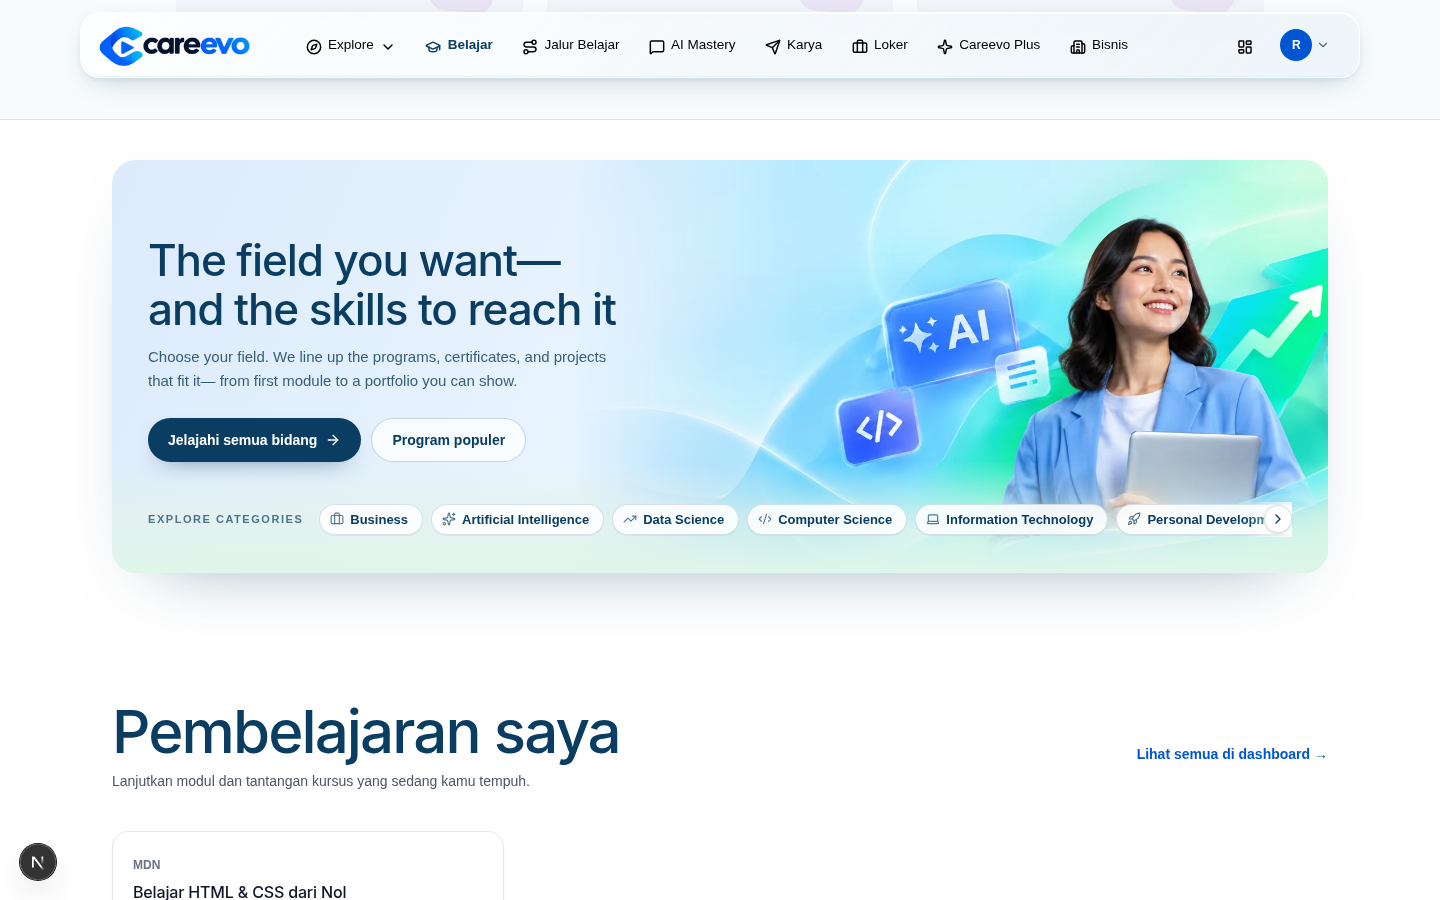
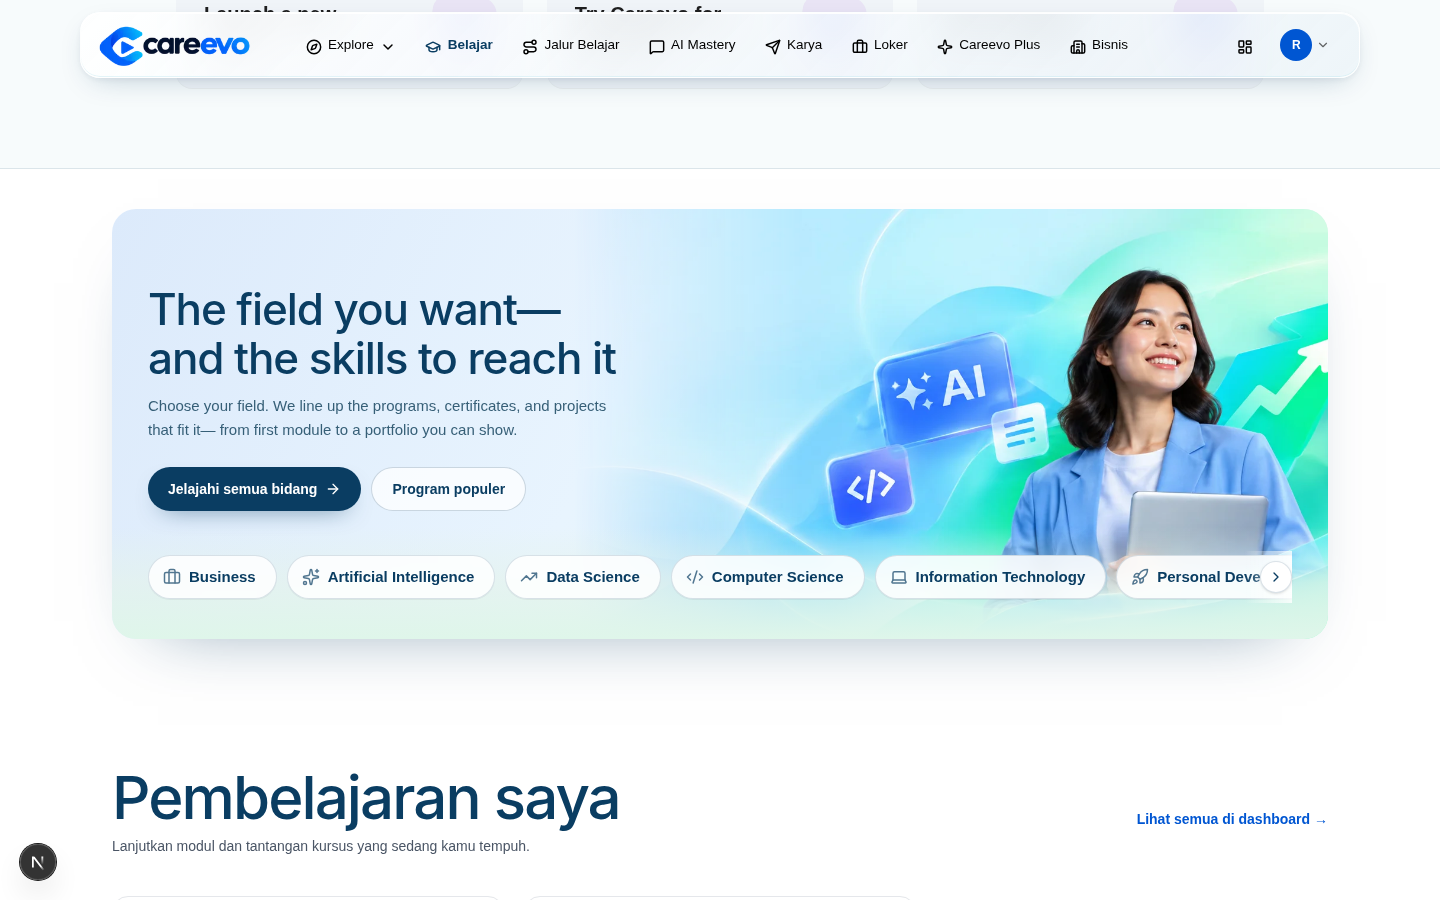
ui(learning): baris kategori jadi pill besar yang bisa diseret
Tiga perubahan pada baris 11 kategori di banner kategorikan:

1. Label "EXPLORE CATEGORIES" dihapus. Besides mencuri lebar dari
   pill, label itu读完 jadi judul kedua: heading "The field you
   want—" kehilanganarean top-nya. Heading sekarang memiliki
   baris paling atas banner tanpa rebutan.

2. Pill lebih besar: `min-h-11` + `py-2.5 pr-5 pl-3.5`, teks
   15px di ≥sm (dari 13px), ikon `size-4.5` (dari 3.5). Di 1440
   tinggi pill 44px dan barisnya 2310px konten di dalam 1144px
   viewport, jadi pasti bergeser.

3. Bisa diseret dengan mouse. `pointerType === "mouse"` jadi
   gerbang: sentuh sudah punya momentum pan native dan mengambil
   pointer-nya di sana akan menukarnya dengan seret 1:1. Ambil
   `setPointerCapture` baru pada gerakan seret pertama — capture
   di pointerdown membuat klik biasa pada pill tidak lagi
   navigasi, karena klik sintetis diteruskan ke elemen yang
   memegang capture. `tangkapKlik` menelan klik yang jatuh
   sesudah seret, kalau tidak menyeret melewati sebuah pill akan
  -tetap membukanya.

Diuji di browser: klik "Data Science" -> /browse/data-science;
seret 280px ke kiri -> scrollLeft=280 dan path tetap /belajar.

diff --git a/src/components/features/learning/belajar-home.tsx b/src/components/features/learning/belajar-home.tsx
@@ -687,6 +687,73 @@ function ExploreCategoriesBanner() {
     });
   };
 
+  /**
+   * Drag-to-scroll, mouse only.
+   *
+   * Touch already pans natively, and taking the pointer there would trade
+   * momentum scrolling for a 1:1 drag, so `pointerType` is the gate. Three
+   * details are load-bearing:
+   *
+   * - a 6px threshold before anything moves, so an ordinary click on a pill is
+   *   never mistaken for a drag;
+   * - capture is taken on the FIRST drag move, not on pointerdown. Capturing
+   *   early retargets the synthesised click to the capturing element, so a
+   *   plain click on a pill stopped navigating at all — capture has to wait
+   *   until we know this is a drag;
+   * - the click that lands after a drag is swallowed (`tangkapKlik`): without
+   *   it, releasing over a pill navigates to that pill;
+   * - `el.scrollLeft = …` rather than `scrollBy`, since the browser has already
+   *   applied its own drag delta by the time `pointermove` lands.
+   */
+  const [seret, setSeret] = useState({ geser: false });
+  const seretRef = useRef({ pointerId: -1, x: 0, scrollLeft: 0, geser: false });
+
+  const mulaiSeret = (event: React.PointerEvent<HTMLUListElement>) => {
+    if (event.pointerType !== "mouse" || event.button !== 0) return;
+    const el = pillRowRef.current;
+    if (!el) return;
+    seretRef.current = {
+      pointerId: event.pointerId,
+      x: event.clientX,
+      scrollLeft: el.scrollLeft,
+      geser: false,
+    };
+  };
+
+  const seretPill = (event: React.PointerEvent<HTMLUListElement>) => {
+    const state = seretRef.current;
+    if (state.pointerId !== event.pointerId) return;
+    const el = pillRowRef.current;
+    if (!el) return;
+    const dx = event.clientX - state.x;
+    if (!state.geser) {
+      if (Math.abs(dx) < 6) return;
+      state.geser = true;
+      // Only now, once this is known to be a drag, is capture safe to take.
+      el.setPointerCapture(event.pointerId);
+      setSeret({ geser: true });
+    }
+    el.scrollLeft = state.scrollLeft - dx;
+  };
+
+  const selesaiSeret = (event: React.PointerEvent<HTMLUListElement>) => {
+    const state = seretRef.current;
+    if (state.pointerId !== event.pointerId) return;
+    const el = pillRowRef.current;
+    if (el?.hasPointerCapture(event.pointerId)) {
+      el.releasePointerCapture(event.pointerId);
+    }
+    seretRef.current = { pointerId: -1, x: 0, scrollLeft: 0, geser: false };
+    setSeret({ geser: false });
+  };
+
+  const tangkapKlik = (event: React.MouseEvent<HTMLUListElement>) => {
+    if (!seretRef.current.geser) return;
+    event.preventDefault();
+    event.stopPropagation();
+    seretRef.current.geser = false;
+  };
+
   return (
     <section
       aria-labelledby="explore-categories-heading"
@@ -752,77 +819,84 @@ function ExploreCategoriesBanner() {
               </div>
             </div>
 
-            {/* Label + row. `flex-col` stacks the row under the label below
-                `sm`; `sm:flex-row` puts it beside the label from `sm` up.
-                Both are intentional — see the JSDoc above. The label is plain
-                uppercase text, not a filled pill, because a filled pill on the
-                heading's line reads as the headline. */}
-            <div className="mt-8 flex flex-col gap-2.5 sm:mt-10 sm:flex-row sm:items-center sm:gap-4">
-              <span className="shrink-0 text-[11px] font-bold tracking-[0.14em] text-[#0A3D62]/70 uppercase">
-                Explore categories
-              </span>
+            {/* The category row: one line, full width, mouse-draggable. No
+                label — an earlier pass had "EXPLORE CATEGORIES" inline here and
+                it both stole width from the pills and read as a second
+                headline. The heading above already says what this is. */}
+            <div className="relative mt-8 sm:mt-10">
+              {/* `tabIndex` on a scroll container is the documented way to make
+                  it keyboard-scrollable; arrow keys otherwise do nothing here. */}
+              <ul
+                ref={pillRowRef}
+                tabIndex={0}
+                aria-label="Kategori"
+                onScroll={syncPillScroll}
+                onPointerDown={mulaiSeret}
+                onPointerMove={seretPill}
+                onPointerUp={selesaiSeret}
+                onPointerCancel={selesaiSeret}
+                onClickCapture={tangkapKlik}
+                onDragStart={(event) => event.preventDefault()}
+                className={cn(
+                  "flex flex-nowrap items-center gap-2.5 overflow-x-auto py-1 pr-10 select-none",
+                  "[-ms-overflow-style:none] [scrollbar-width:none] [&::-webkit-scrollbar]:hidden",
+                  // A mouse has no native drag-to-scroll, so `grab` is the only
+                  // cue that the row moves. Touch keeps its native momentum.
+                  "touch-pan-x cursor-grab",
+                  seret.geser && "cursor-grabbing",
+                )}
+              >
+                {CATEGORY_PILLS.map((pill) => {
+                  const Icon = pill.icon;
+                  return (
+                    <li key={pill.slug} className="shrink-0">
+                      <Link
+                        href={FIELD_HREF[pill.slug] ?? `/browse/${pill.slug}`}
+                        draggable={false}
+                        className="group inline-flex min-h-11 items-center gap-2 rounded-full border border-[#0A3D62]/15 bg-white/85 py-2.5 pr-5 pl-3.5 text-sm font-semibold text-[#0A3D62] shadow-2xs backdrop-blur-sm transition-colors hover:border-[#0A3D62] hover:bg-[#0A3D62] hover:text-white sm:text-[15px]"
+                      >
+                        <Icon
+                          className="size-4.5 shrink-0 opacity-70 transition-opacity group-hover:opacity-100"
+                          aria-hidden
+                        />
+                        {pill.name}
+                      </Link>
+                    </li>
+                  );
+                })}
+              </ul>
 
-              <div className="relative min-w-0 flex-1">
-                {/* `tabIndex` on a scroll container is the documented way to make
-                    it keyboard-scrollable; arrow keys otherwise do nothing here. */}
-                <ul
-                  ref={pillRowRef}
-                  tabIndex={0}
-                  aria-label="Kategori"
-                  onScroll={syncPillScroll}
-                  className="flex flex-nowrap items-center gap-2 overflow-x-auto py-0.5 pr-8 scroll-smooth [-ms-overflow-style:none] [scrollbar-width:none] [&::-webkit-scrollbar]:hidden"
-                >
-                  {CATEGORY_PILLS.map((pill) => {
-                    const Icon = pill.icon;
-                    return (
-                      <li key={pill.slug} className="shrink-0">
-                        <Link
-                          href={FIELD_HREF[pill.slug] ?? `/browse/${pill.slug}`}
-                          className="group inline-flex items-center gap-1.5 rounded-full border border-[#0A3D62]/15 bg-white/85 py-1.5 pr-3.5 pl-2.5 text-xs font-semibold text-[#0A3D62] shadow-2xs backdrop-blur-sm transition-colors hover:border-[#0A3D62] hover:bg-[#0A3D62] hover:text-white sm:text-[13px]"
-                        >
-                          <Icon
-                            className="size-3.5 shrink-0 opacity-70 transition-opacity group-hover:opacity-100"
-                            aria-hidden
-                          />
-                          {pill.name}
-                        </Link>
-                      </li>
-                    );
-                  })}
-                </ul>
+              {/* Edge fades double as the "there is more" affordance, so each one
+                  only appears when there is actually something under it. The
+                  right one is white, not the banner's mint: that side sits over
+                  the artwork, and a mint veil there tinted the image. */}
+              <div
+                aria-hidden
+                className={cn(
+                  "pointer-events-none absolute inset-y-0 left-0 w-10 bg-gradient-to-r from-[#DCEAFB] to-transparent transition-opacity duration-200",
+                  pillScroll.start ? "opacity-100" : "opacity-0",
+                )}
+              />
+              <div
+                aria-hidden
+                className={cn(
+                  "pointer-events-none absolute inset-y-0 right-0 w-12 bg-gradient-to-l from-white/80 to-transparent transition-opacity duration-200",
+                  pillScroll.end ? "opacity-100" : "opacity-0",
+                )}
+              />
 
-                {/* Edge fades double as the "there is more" affordance, so each
-                    one only appears when there is actually something under it.
-                    The right one is white, not the banner's mint: that side sits
-                    over the artwork, and a mint veil there tinted the image. */}
-                <div
-                  aria-hidden
-                  className={cn(
-                    "pointer-events-none absolute inset-y-0 left-0 w-10 bg-gradient-to-r from-[#DCEAFB] to-transparent transition-opacity duration-200",
-                    pillScroll.start ? "opacity-100" : "opacity-0",
-                  )}
-                />
-                <div
-                  aria-hidden
-                  className={cn(
-                    "pointer-events-none absolute inset-y-0 right-0 w-12 bg-gradient-to-l from-white/80 to-transparent transition-opacity duration-200",
-                    pillScroll.end ? "opacity-100" : "opacity-0",
-                  )}
-                />
-
-                <button
-                  type="button"
-                  onClick={() => geserPill(1)}
-                  disabled={!pillScroll.end}
-                  aria-label="Geser kategori ke kanan"
-                  className={cn(
-                    "absolute top-1/2 right-0 grid size-7 -translate-y-1/2 place-items-center rounded-full border border-[#0A3D62]/15 bg-white text-[#0A3D62] shadow-sm transition-[opacity,background-color,color,transform] duration-200 hover:bg-[#0A3D62] hover:text-white active:scale-95 disabled:pointer-events-none",
-                    pillScroll.end ? "opacity-100" : "opacity-0",
-                  )}
-                >
-                  <ChevronRight className="size-4" aria-hidden />
-                </button>
-              </div>
+              <button
+                type="button"
+                onClick={() => geserPill(1)}
+                disabled={!pillScroll.end}
+                aria-label="Geser kategori ke kanan"
+                className={cn(
+                  "absolute top-1/2 right-0 grid size-8 -translate-y-1/2 place-items-center rounded-full border border-[#0A3D62]/15 bg-white text-[#0A3D62] shadow-sm transition-[opacity,background-color,color,transform] duration-200 hover:bg-[#0A3D62] hover:text-white active:scale-95 disabled:pointer-events-none",
+                  pillScroll.end ? "opacity-100" : "opacity-0",
+                )}
+              >
+                <ChevronRight className="size-4" aria-hidden />
+              </button>
             </div>
 
             {/* Illustration, below the copy on mobile: a cropped strip, so no
